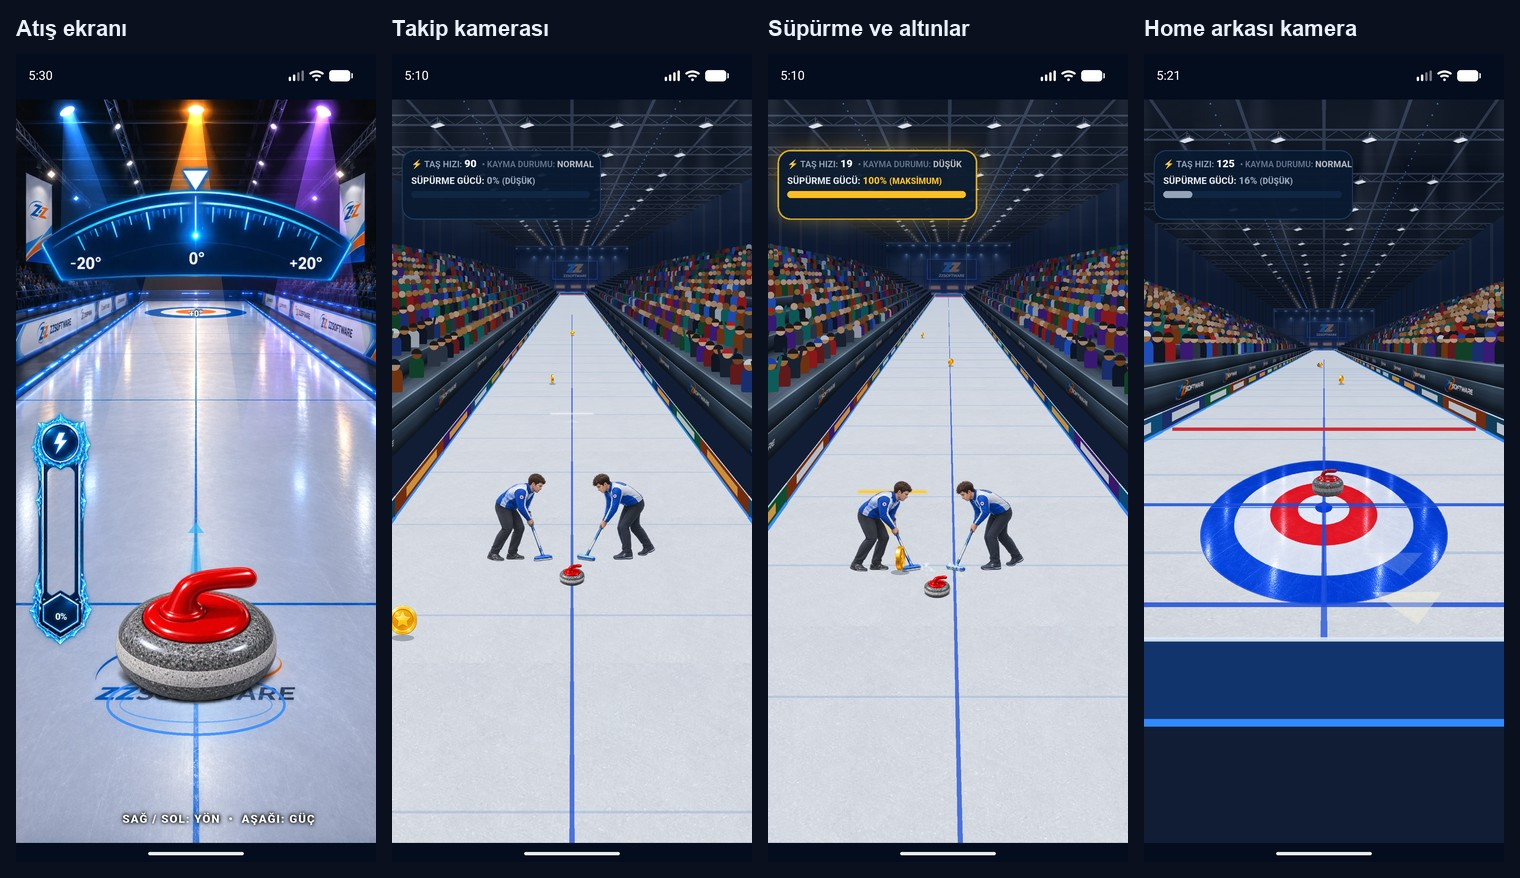
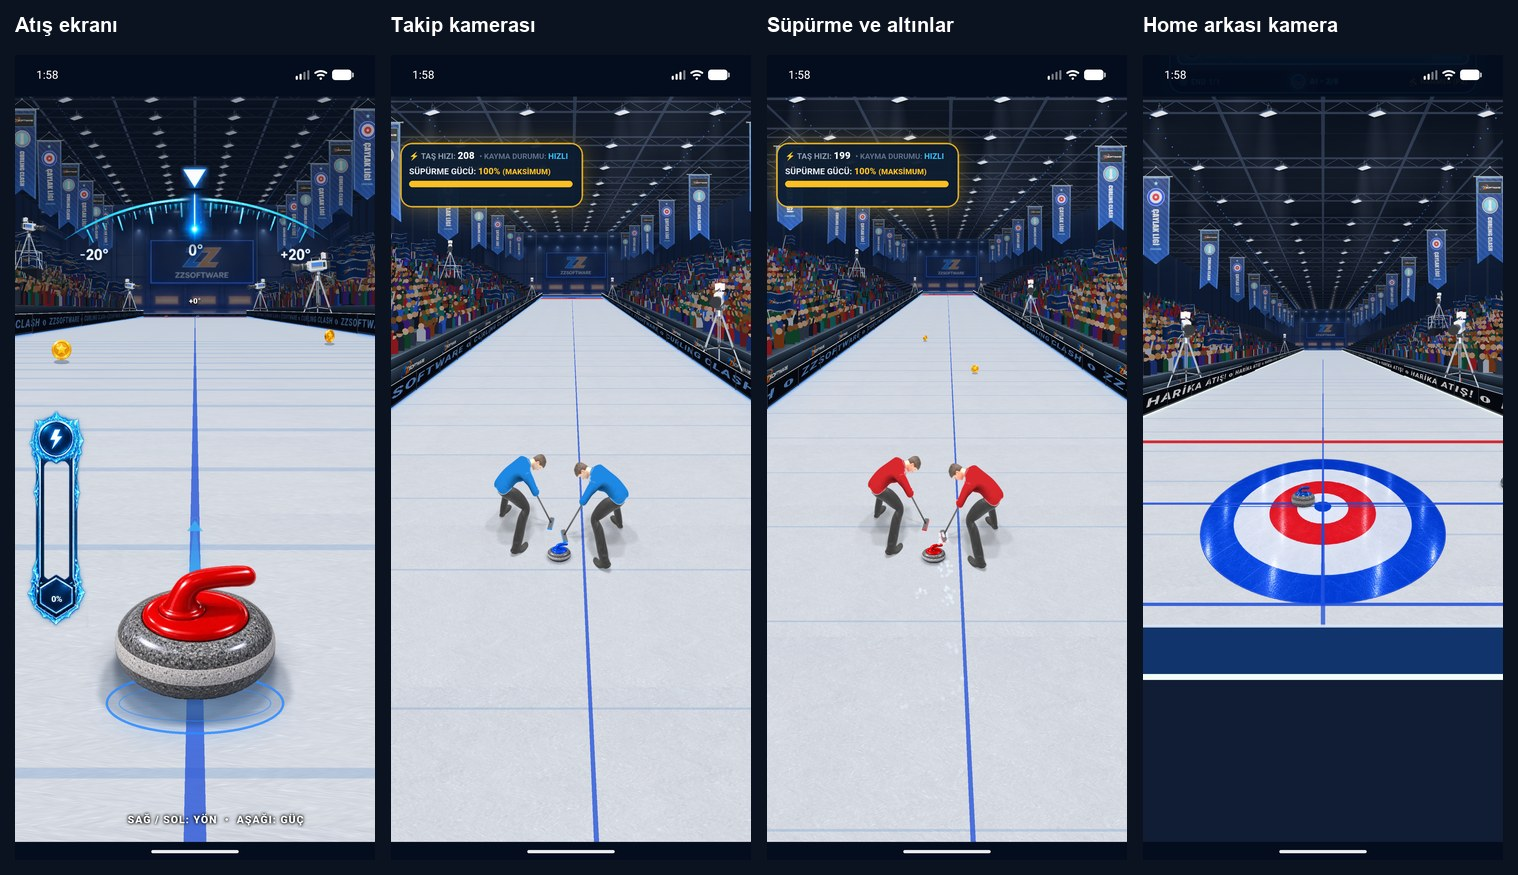
Update the overview for the leagues and the dressed hall
New pictures of the menu flow, the cameras and the geometry / final pairs,
and a new one of the four leagues' halls. The text follows the game as it is
now: four leagues with their own lighting, LED boards, broadcast cameras,
hanging banners, rendered sweepers, batched drawing, and the current figures
for the economy and the size of the project.

diff --git a/README.md b/README.md
@@ -6,26 +6,30 @@
 
 Curling Clash, Flutter ve Flame ile geliştirilmiş, dikey ekran mobil bir curling
 oyunudur. Taş tek bir fizik dünyasında kayar; aynı dünya, hazır bir 3B motor
-kullanılmadan yazılmış perspektif kamera sistemiyle üç farklı yayın açısından
-çizilir.
+kullanılmadan yazılmış perspektif kamera sistemiyle atıcının gözünden ve üç
+yayın açısından çizilir. Dört ligin her birinin kendi ışıklandırması olan
+ayrı bir salonu vardır.
 
-![Ana menü, oyun modu ve taş seçimi](images/akis.jpg)
+![Ana menü, lig seçimi, oyun modu ve taş seçimi](images/akis.jpg)
 
 ## Öne çıkanlar
 
 | | |
 |---|---|
-| **Kendi 3B çizim hattı** | Salonun tamamı (buz, bariyerler, 11 basamaklı tribünler, çatı makasları, duvarlar) Flutter `Canvas` üzerinde, elle yazılmış bir iğne deliği kamerayla projekte edilir. Hazır 3B motor yoktur. |
-| **Tek dünya, tek fizik, üç kamera** | Takip kamerası, home arkası kamera ve tepe görünümü aynı dünya koordinatlarını okur. Kamera değişince hiçbir nesne yeniden oluşturulmaz. |
+| **Kendi 3B çizim hattı** | Salonun tamamı (buz, LED panolar, 14 basamaklı tribünler, çatı makasları, duvarlar) Flutter `Canvas` üzerinde, elle yazılmış bir iğne deliği kamerayla projekte edilir. Hazır 3B motor yoktur. |
+| **Tek dünya, tek fizik, dört bakış** | Atıcının gözü, takip kamerası, home arkası kamera ve tepe görünümü aynı dünya koordinatlarını okur. Kamera değişince hiçbir nesne yeniden oluşturulmaz. |
+| **Dört lig, dört salon** | Oyun her ligde aynıdır; lig yükseldikçe saha %12 uzar ve salonun ışıkları renklenir: akan LED şeritler, renkli tavan ışıkları, tribünlerin üstünde gezen spotlar, seyircide ışık çubukları. |
+| **Yaşayan salon** | Bariyerler LED ekrandır ve atışa göre mesaj verir; yayın kameralarının başlıkları taşı izler; tavandaki flamalar salınır; seyirci heyecana göre ayağa kalkıp zıplar, bayrak sallar. |
+| **Renderlanmış süpürücüler** | Süpürücüler Blender'da pozlanıp oyunun kamera açılarından renderlanır, formaları taşın rengine boyanır. Durum makinesi (bekleme, kayma, süpürme, hızlı süpürme, toparlanma) taşın hızına ve süpürme gücüne bağlıdır. |
 | **Fizik ile sunumun ayrılması** | Fizik yazar, çizim yalnızca okur. Çizim katmanı taş konumlarını hiçbir koşulda değiştirmez. |
-| **Malzeme sistemi** | Çelik tribünler, dört ayrıntı seviyesinde önceden süzülmüş bir doku atlasından, dünya koordinatlı doku eşlemesiyle ve tribün başına tek çizim çağrısıyla çizilir. |
+| **Malzeme sistemi ve toplu çizim** | Çelik tribünler, dört ayrıntı seviyesinde önceden süzülmüş bir doku atlasından, dünya koordinatlı doku eşlemesiyle çizilir. Binlerce seyirci ve bütün ışık huzmeleri hazır köşe tamponlarına yazılır: tribün başına tek, ışık için tek çizim çağrısı. |
 | **İki süpürücülü ritim kontrolü** | Ekranda düğme yoktur: ekranın iki yarısı iki süpürücüdür. Vuruş ritmi sürtünmeyi, iki taraf arasındaki fark taşın yönünü belirler. |
-| **Prosedürel ses** | 23 ses efektinin tamamı kayıt kullanılmadan, sinüs bileşenleri ve süzülmüş gürültüden kodla üretilir. |
+| **Prosedürel ses** | Oyunun ses efektleri kayıt kullanılmadan, sinüs bileşenleri ve süzülmüş gürültüden kodla üretilir; seyircinin alkış ve tepkileri lisanslı kayıtlardan kesilmiştir. |
 | **Tam oyun döngüsü** | Altın ekonomisi, taş yükseltmeleri, dört lig, günlük görevler, bilgisayar rakip, yerel iki oyunculu mod, adım adım öğretici ve Türkçe / İngilizce dil desteği. |
 
-Ölçek: 135 Dart dosyası, yaklaşık 36.000 satır; çizim hattının çekirdeği tek
-başına 2.600 satır. Kamera projeksiyonu, süpürme modeli, altın ve ekonomi
-kuralları birim testleriyle doğrulanır.
+Ölçek: 149 Dart dosyası, yaklaşık 42.000 satır; salonun çizimi tek başına
+5.200 satır. Kamera projeksiyonu, süpürme modeli, lig salonları, altın ve
+ekonomi kuralları 350'den fazla birim testiyle doğrulanır.
 
 ## Oynanış
 
@@ -34,7 +38,7 @@ kuralları birim testleriyle doğrulanır.
 1. **Atış:** taş tutulur, aşağı çekilerek güç, yana kaydırılarak yön verilir ve bırakılır.
 2. **Takip:** kamera taşın arkasından ilerler; salon akar, home uzaktan yaklaşır.
 3. **Süpürme:** ekranın sol yarısı sol süpürücüyü, sağ yarısı sağ süpürücüyü çalıştırır. Yoldaki altınlar toplanır.
-4. **Home:** taş home'a yaklaşınca yayın home arkası kameraya geçer; taşlar durunca sonuç tepeden gösterilir ve halkaya göre puan verilir.
+4. **Home:** taş home'a yaklaşınca yayın home arkası kameraya geçer; taşlar durunca sonuç tepeden gösterilir ve halkaya göre puan verilir. İyi atışta LED panolar mesaj verir; rakibin taşını home'dan çıkaran atış rozetini ve altınını alır.
 
 ```mermaid
 stateDiagram-v2
@@ -44,6 +48,15 @@ stateDiagram-v2
     TepeKamerasi --> TakipKamerasi: sıradaki taş
     TepeKamerasi --> [*]: maç bitti
 ```
+
+## Ligler ve salon
+
+![Dört ligin salonu: Çaylak, Profesyonel, Elit, Buz Efsanesi](images/ligler.jpg)
+
+Dört lig de oynanabilir; lig puanı yalnızca sıralamayı belirler. Buz, çizgiler
+ve fizik her ligde aynıdır. Lig yükseldikçe saha biraz uzar (×1,00 / 1,12 /
+1,24 / 1,36) ve salon daha renkli ışıklandırılır. LED panoların rengi buzun
+yalnızca kenarlarına yansır; home ve atış hattı her ligde temiz buzdur.
 
 ## Mimari
 
@@ -137,11 +150,15 @@ Teknik notlar:
   kenar parlaması titremek yerine sönümlenir.
 - **Çizim sırası.** Derinlik tamponu yoktur; katmanlar uzaktan yakına sabit
   sırayla çizilir.
+- **Toplu çizim.** Seyirciler ve ışık huzmeleri tek tek çizilmez; köşeleri
+  hazır tamponlara yazılır ve tek çağrıda çizilir. Resmin dışında kalan
+  flama, kamera ve huzmeler atlanır.
 
 ```mermaid
 flowchart LR
-    A[Çatı] --> B[Bitiş duvarı] --> C[Tribünler ve seyirciler] --> D[Buz]
-    D --> E[Çizgiler ve home] --> F[Bariyerler] --> G[Sis ve ışık]
+    A[Çatı] --> B[Bitiş duvarı] --> C[Tribünler ve seyirciler]
+    C --> C2[Flamalar ve yayın kameraları] --> D[Buz]
+    D --> E[Çizgiler ve home] --> F[LED panolar] --> G[Sis ve ışık]
     G --> H[Altınlar, taşlar, süpürücüler]
 ```
 
@@ -211,10 +228,11 @@ doğru geri itilir ve kamera kısa bir sarsıntı verir.
 
 Her olayın kendi sesi vardır: taşı tutma, güç ve yön çentikleri, bırakma,
 hıza bağlı kayma uğultusu, fırça vuruşları, tek altın ve çoklu altın, taş
-çarpışması, puan, seyirci ve maç sonu. Sesler oynatıcı havuzlarından çalınır;
-aynı anda birden çok ses birbirini kesmeden duyulur. Ses dosyalarını üreten
-betik projenin parçasıdır, bu yüzden bütün ses seti tek komutla yeniden
-üretilebilir veya ayarlanabilir.
+çarpışması, puan, seyirci ve maç sonu. Kısa efektler sabit sayıda düşük
+gecikmeli oynatıcıdan çalınır; aynı anda birden çok ses birbirini kesmeden
+duyulur ve uzun bir süpürme ses kanallarını tüketmez. Atış sürerken stadyum
+uğultusu alkışın altında kalır. Efektleri üreten betik projenin parçasıdır,
+bu yüzden ses seti tek komutla yeniden üretilebilir veya ayarlanabilir.
 
 ## Ekonomi ve ilerleme
 
@@ -222,7 +240,7 @@ betik projenin parçasıdır, bu yüzden bütün ses seti tek komutla yeniden
 |---|---|
 | Buzdaki altın | +5 |
 | Dış halka / beyaz / kırmızı / merkez | +5 / +10 / +15 / +25 |
-| Rakip taşı home'dan çıkarmak | taş başına +25 |
+| Rakip taşı home'dan çıkarmak | +50 (altınlar tek tek keseye uçar) |
 | Maçı kazanmak | +100 |
 | Günlük görevler | +30 / +50 / +100 |
 
@@ -232,8 +250,9 @@ açılır. Lig yükseldikçe saha uzar ve bilgisayar rakip güçlenir.
 ## Teknoloji
 
 - Flutter (Dart), Flame oyun döngüsü
-- Çizim: `Canvas.drawVertices`, `ImageShader`, çalışma zamanında üretilen doku atlası
-- Ses: havuzlu oynatıcılar, Python ile üretilen ses seti
+- Çizim: `Canvas.drawVertices`, `Vertices.raw`, `ImageShader`, çalışma zamanında üretilen doku atlası
+- Görseller: süpürücüler, yayın kamerası ve flamalar Blender (Cycles) ile renderlanır
+- Ses: düşük gecikmeli oynatıcılar, Python ile üretilen ses seti
 - Hedefler: Android ve web
 
 ---
